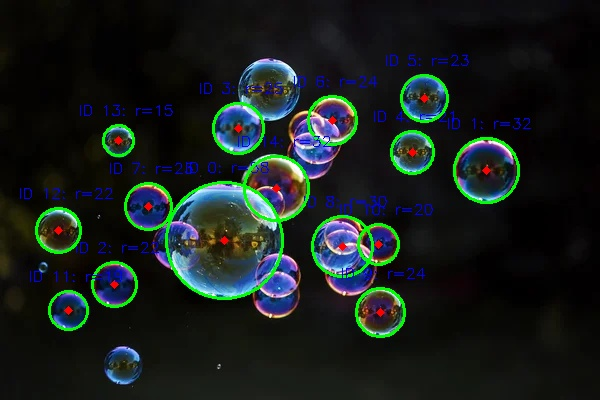
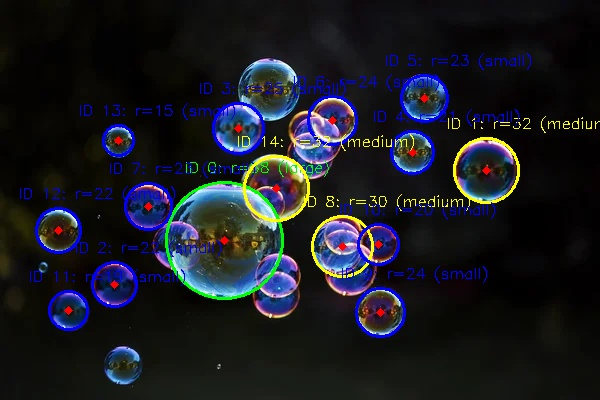
updated bonus

diff --git a/Day2_Assignment_Ashwin/circle_detector.py b/Day2_Assignment_Ashwin/circle_detector.py
@@ -62,7 +62,7 @@ def detect_circles(gray_image, dp=1, minDist=20, param1=50, param2=40, minRadius
     return circles
 
 
-def visualize_circles(image, circles, save_path=None):
+def visualize_circles(image, circles, minRadius, maxRadius, save_path=None):
     '''
     Docstring for visualize_circles
     
@@ -71,19 +71,30 @@ def visualize_circles(image, circles, save_path=None):
     :param save_path: Optional path to save the image (with circles shown)
     '''
 
+    SIZE_COLOURS = {
+        "small": (255, 0, 0),    # blue
+        "medium": (0, 255, 255), # yellow
+        "large": (0, 255, 0)     # green
+    }
+
+
     annotated = image.copy()
 
     if circles is not None:
         for i, (x, y, r) in enumerate(circles[0]):
-            cv2.circle(annotated, (x, y), r, (0, 255, 0), 2)
+            size = classify_size(r, minRadius, maxRadius)
+            colour = SIZE_COLOURS[size]
+
+            cv2.circle(annotated, (x, y), r, colour, 2)
+
             cv2.circle(annotated, (x, y), 2, (0, 0, 255), 3)
             cv2.putText(
                 annotated,
-                f"ID {i}: r={r}",
+                f"ID {i}: r={r} ({size})",
                 (x - 40, y - r - 10),
                 cv2.FONT_HERSHEY_SIMPLEX,
                 0.5,
-                (255, 0, 0),
+                colour,
                 1
             )
 
@@ -135,6 +146,29 @@ def calculate_statistics(circles):
 
     return stats
 
+def classify_size(radius, min_r, max_r):
+    """
+    Docstring for classify_size
+    
+    Args:
+        :param radius: radius of the considered circle
+        :param min_r: min radius of all detected
+        :param max_r: max radius of all detected
+
+    Return:
+        :rtype: Literal['small', 'medium', 'large']
+    """
+
+    if max_r - min_r < 10:
+        return "medium"
+
+    if radius < min_r + (max_r - min_r) / 3:
+        return "small"
+    elif radius < min_r + 2 * (max_r - min_r) / 3:
+        return "medium"
+    else:
+        return "large"
+
 
 def main():
     '''
@@ -148,7 +182,7 @@ def main():
         acc = int(input("Enter accumulator threshold value (default 40): ") or 40)
     except ValueError:
         acc = 40
-        
+
     if not os.path.exists(image_path):
         print("Error: File does not exist")
         return
@@ -177,8 +211,8 @@ def main():
     for key, value in stats.items():
         print(f"{key}: {value}")
 
-    
-    visualize_circles(image, circles, save_path=os.path.join(results_dir,f"{base_name}_result.jpg"))
+    if circles is not None:
+        visualize_circles(image, circles, minRadius=stats["min_radius"], maxRadius=stats["max_radius"], save_path=os.path.join(results_dir,f"{base_name}_result.jpg"))
 
 
 if __name__ == "__main__":

diff --git a/Day2_Assignment_Ashwin/README.md b/Day2_Assignment_Ashwin/README.md
@@ -29,6 +29,11 @@ Implement a circle detection program using the Hough Circle Transform to detect,
 
 The accumulator threshold (param2) is taken as user input at runtime, allowing interactive tuning for different images. Other parameters are set to stable defaults and adjusted during testing as needed.
 
+## Size Classification
+
+Detected circles are classified into small, medium, and large categories based on their relative radii. Each category is visualized using a distinct color to enable intuitive comparison.
+
+
 ## Statistics
 
 For each image, the following are reported:
@@ -74,6 +79,7 @@ Enter:
 results/  
 ├── <image_name>_result.jpg  
 └── statistics.txt
+
 
 
 ## Notes
